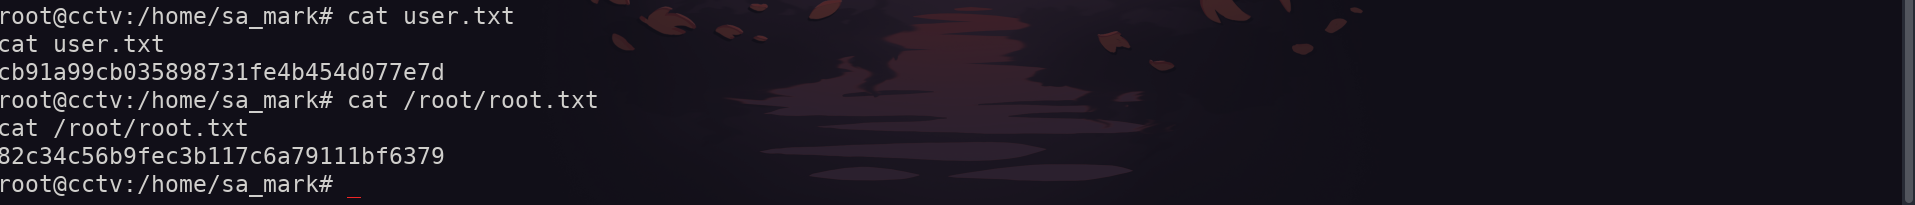
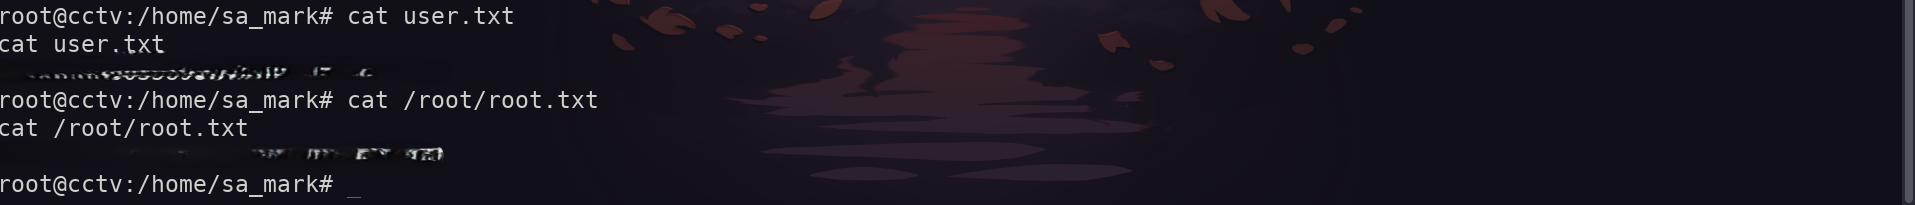
update

Changed region(s): [[0.0, 0.7024, 0.2465, 0.8195], [0.0, 0.2927, 0.2465, 0.4098], [0.0616, 0.2341, 0.0924, 0.2634]]

diff --git a/content/writeups/HTB/Linux/cctv/index.md b/content/writeups/HTB/Linux/cctv/index.md
@@ -183,10 +183,10 @@ Sent the payload, and — root shell acquired.
 ```bash
 root@cctv:/home/sa_mark# cat user.txt
 cat user.txt
-cb91a99cb035898731fe4b454d077e7d
+
 root@cctv:/home/sa_mark# cat /root/root.txt
 cat /root/root.txt
-82c34c56b9fec3b117c6a79111bf6379
+
 root@cctv:/home/sa_mark# 
 ```
 
